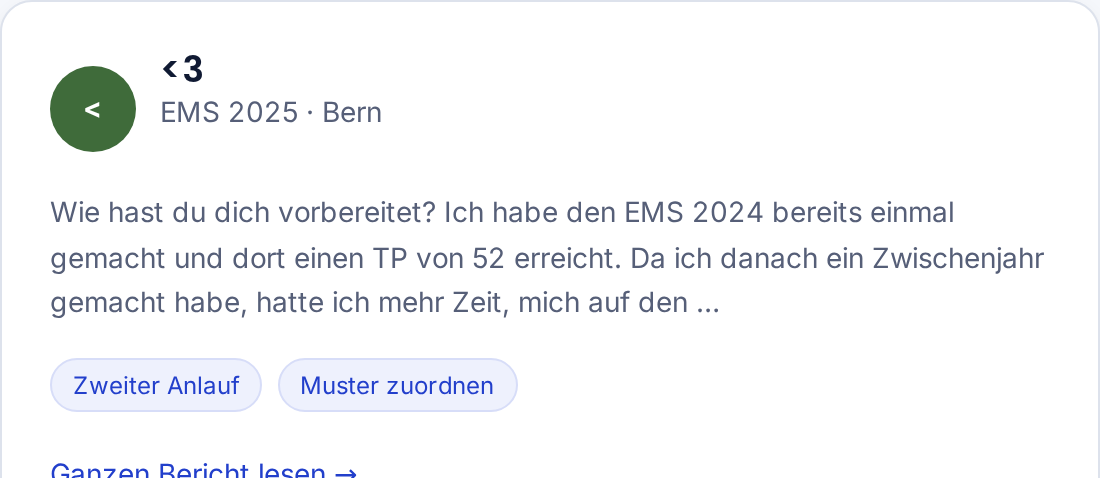
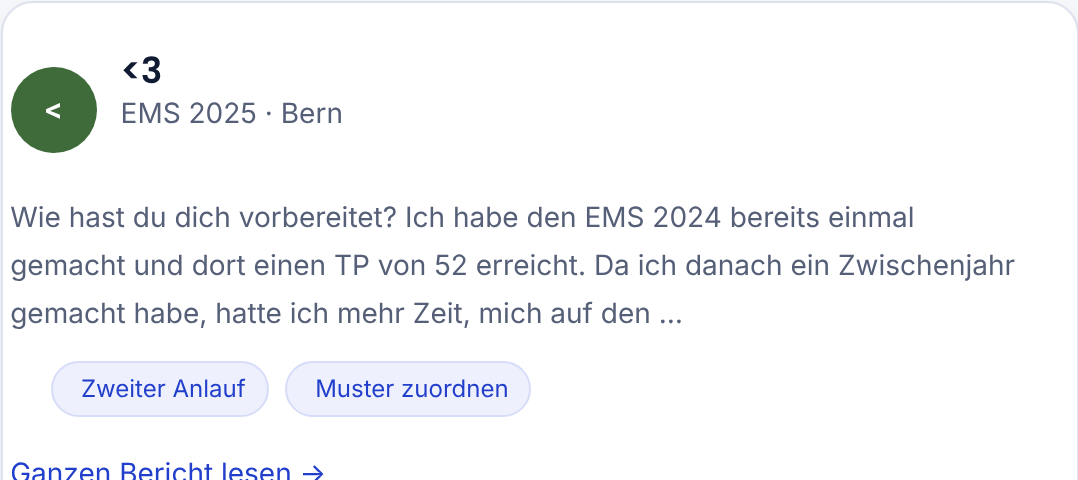
Kachelbilder je Sprache, Rückmeldung beim Drucken, Auswertungs-Tools öffentlich (Beta)
Kachelbilder der Startseite:
- Testheft-Deckblatt, Kursskript, Uniguide-Tabelle und Erfahrungsbericht gibt
  es je Sprache (testheft.fr.png …); die Seite nimmt das Bild ihrer Sprache,
  sonst das deutsche. Bisher standen die deutschen Bilder auch auf den
  französischen und italienischen Seiten.
- Neu scripts/angebot-bildschirmfotos.mjs für die beiden Bildschirmfotos.
  Die neun kleinen Übungsseiten bleiben einmalig (85 px breit, Serien nicht
  in allen Sprachen dieselben).

Lern-Generator: «Set als PDF / drucken» zeigt wie der Start sofort
«Set wird erzeugt …» und ist so lange gesperrt.

Auswertungs-Tools öffentlich, mit Beta-Hinweis im Tool (drei Sprachen):
- «Antwortbogen auswerten» auf /ems/testsimulationen/
- «Konzentrationstest auswerten» auf
  /ems/uebungsaufgaben/konzentriertes-arbeiten/
An der Leselogik ist nichts geändert. Auf den neuen Seiten in drei Sprachen
und Handybreite geprüft: gleiches Ergebnis wie auf der Alpha-Seite.

Prüfstände: Verhalten 118, 1002 Seitenaufrufe ohne Fund, Fakten 40,
Figuren 35, Antwortbogen 59, Konztest 51.

Claude-Session: https://claude.ai/code/session_01QYXDJP8xjsKLrfe2d15VtD

diff --git a/layouts/partials/bausteine/lern-generator.html b/layouts/partials/bausteine/lern-generator.html
@@ -289,7 +289,19 @@
     dazu(null, [{ inhalt: H.loesungsblatt(titel, auswahl.map(function(u){ return { titel: u.m.titelAbfrage, loesungen: u.m.loesungen() }; })) }]);
     H.drucken(seiten);
   }
-  el('lg-drucken').addEventListener('click', function(){ drucken(true); });
+  // «Set als PDF» wuerfelt erst ein neues Set - dieselbe Wartezeit wie beim
+  // Start, darum dieselbe Rueckmeldung: Knopf auf «wird erzeugt», den Browser
+  // das zeichnen lassen, dann rechnen.
+  el('lg-drucken').addEventListener('click', function(){
+    var knopf = this, text = knopf.textContent;
+    if (knopf.disabled) return;
+    if (!gewaehlt().length){ el('lg-fehler').hidden = false; return; }
+    knopf.disabled = true; knopf.textContent = T.erzeugt; knopf.setAttribute('aria-busy', 'true');
+    setTimeout(function(){
+      try { drucken(true); }
+      finally { knopf.disabled = false; knopf.textContent = text; knopf.removeAttribute('aria-busy'); }
+    }, 50);
+  });
   el('lg-drucken-ende').addEventListener('click', function(){ drucken(false); });
 })();
 </script>

diff --git a/layouts/partials/material-grid.html b/layouts/partials/material-grid.html
@@ -85,6 +85,10 @@
                gedruckten Skripte im Hörsaal, also mehr als die Titelseite der
                PDF-Datei je zeigen könnte. */ -}}
         {{- $pfad := printf "images/angebot/%s.png" . }}
+        {{- /* Gibt es das Bild in der Sprache der Seite (testheft.fr.png), gilt
+               dieses - sonst das deutsche. */ -}}
+        {{- $eigen := printf "images/angebot/%s.%s.png" . $.Site.Language.Lang }}
+        {{- if resources.Get $eigen }}{{ $pfad = $eigen }}{{ end }}
         {{- if strings.Contains . "." }}{{ $pfad = printf "images/%s" . }}{{ end }}
         {{- with resources.Get $pfad }}
         {{- /* Zwei Grössen: In der Neunerkachel (Übungsserien) ist jedes Bild nur

diff --git a/layouts/partials/bausteine/konztest-auswertung.html b/layouts/partials/bausteine/konztest-auswertung.html
@@ -44,6 +44,7 @@
 {{- partial "bausteine/konztest-lesen.html" . }}
 <div class="ab kt" id="kt-wurzel" data-pagefind-ignore>
 <script type="application/json" id="kt-daten">{{ $d | jsonify | safeJS }}</script>
+<p class="note" id="kt-beta">{{ i18n "bl_beta" }}</p>
 <p class="ab-intro">{{ i18n "kt_intro" }}</p>
 <p class="ab-privat">{{ i18n "kt_privat" }}</p>
 <div class="ab-eingabe">

diff --git a/layouts/partials/bausteine/antwortbogen-auswertung.html b/layouts/partials/bausteine/antwortbogen-auswertung.html
@@ -50,6 +50,7 @@
 {{- partial "bausteine/bild-lesen.html" . }}
 <div class="ab" id="ab-wurzel" data-pagefind-ignore>
 <script type="application/json" id="ab-daten">{{ $d | jsonify | safeJS }}</script>
+<p class="note" id="ab-beta">{{ i18n "bl_beta" }}</p>
 <p class="ab-intro">{{ i18n "ab_intro" }}</p>
 <p class="ab-privat">{{ i18n "ab_privat" }}</p>
 <div class="ab-eingabe">

diff --git a/scripts/angebot-bilder-erzeugen.py b/scripts/angebot-bilder-erzeugen.py
@@ -19,8 +19,8 @@ die Anzeigegrösse verkleinert - die Quelldateien dürfen also grosszügig sein.
 
 NICHT ENTHALTEN sind zwei Bilder der Collage "Orientierung und Austausch":
 uniguide.png (vier Zeilen der Vergleichstabelle) und berichte.png (EINE
-Erfahrungsbericht-Karte) sind Bildschirmfotos der eigenen Website. Sie
-entstehen mit Playwright; wie, steht in docs/WARTUNG-DETAILLIERT.md.
+Erfahrungsbericht-Karte) sind Bildschirmfotos der eigenen Website, je
+Sprache eines. Sie entstehen mit scripts/angebot-bildschirmfotos.mjs.
 Das dritte Feld (Discord) ist kein Bild mehr, sondern Text in der Seite
 (material-grid.html): drei erfundene Sprechblasen, je Sprache uebersetzt.
 Aus dem echten Discord-Server gibt es bewusst KEIN Bild - dort stehen Namen
@@ -81,6 +81,18 @@ SEITEN = [
     ('kursskript', 'assets/downloads/kursskripte/NCWiki_Kursskript_2026_deutsch.pdf', 0),
 ]
 
+# DIESELBEN SEITEN AUF FRANZÖSISCH UND ITALIENISCH: "testheft.fr.png" usw.
+# material-grid.html nimmt für eine Sprache zuerst das Bild mit ihrem Kürzel
+# und sonst das deutsche. Die neun kleinen Übungsseiten gibt es nur einmal:
+# In der Kachel sind sie 85 px breit (die Sprache ist nicht zu erkennen), und
+# die Serien sind nicht in allen Sprachen dieselben.
+SEITEN_SPRACHEN = [
+    ('testheft.fr', 'assets/downloads/testsimulationen/fr/2026_testsimulationen_Testsimulation.pdf', 2),
+    ('testheft.it', 'assets/downloads/testsimulationen/it/2026_testsimulationen_Testsimulation.pdf', 2),
+    ('kursskript.fr', 'assets/downloads/kursskripte/fr/2026_Kursskript.pdf', 0),
+    ('kursskript.it', 'assets/downloads/kursskripte/it/2026_Kursskript.pdf', 0),
+]
+
 
 def ganze_seite(name, pfad, seite_nr):
     voll = os.path.join(WURZEL, pfad)
@@ -100,7 +112,7 @@ def main():
     for eintrag in TEILE:
         ganze_seite(*eintrag)
     print('Weitere ganze Seiten:')
-    for eintrag in SEITEN:
+    for eintrag in SEITEN + SEITEN_SPRACHEN:
         ganze_seite(*eintrag)
     print('\nFertig. Die drei Bilder der Collage "Orientierung und Austausch"')
     print('(uniguide, berichte) entstehen separat - siehe Kopf dieser Datei.')

diff --git a/content/de/ems/uebungsaufgaben/konzentriertes-arbeiten.md b/content/de/ems/uebungsaufgaben/konzentriertes-arbeiten.md
@@ -20,6 +20,14 @@ Dies ist der einzige Untertest, bei dem eine Rangliste zwischen allen Kandidiere
 
 Für jedes richtig markierte Zeichen gibt es einen Punkt, für jedes falsch markierte oder bis zum letzten markierten Zeichen ausgelassene Zeichen wird ein Punkt abgezogen. Da ein übersprungenes Zeichen dich zusätzlich um die Chance auf einen Punkt bringt, ist Auslassen tendenziell schlechter als ein falsch gesetzter Strich. Insgesamt gibt es 40 Zeilen mit ungefähr gleichmässig verteilten Zeichen – im Schnitt lassen sich etwa zehn pro Zeile markieren, das kann als grobe Orientierung dienen.
 
+## Konzentrationstest auswerten
+
+Fotografiere dein bearbeitetes Blatt, und die Markierungen werden nach der Regel oben gezählt: richtig markiert minus falsch markiert minus ausgelassen. Geht für die Konzentrationstests unserer Testsimulationen und Übungsserien mit Lösungsblatt. Das Foto bleibt auf deinem Gerät.
+
+```baustein
+konztest-auswertung
+```
+
 ## Bedeutung für das Studium
 
 Als Ärztin oder Arzt ist es wichtig, auch unter Stress konzentriert und genau arbeiten zu können. Genau das prüft dieser Untertest.

diff --git a/content/fr/ems/uebungsaufgaben/konzentriertes-arbeiten.md b/content/fr/ems/uebungsaufgaben/konzentriertes-arbeiten.md
@@ -20,6 +20,14 @@ C'est le seul sous-test pour lequel un classement est établi entre tous les can
 
 Chaque caractère correctement marqué rapporte un point, chaque caractère marqué à tort ou omis jusqu'au dernier caractère marqué en retire un. Comme un caractère sauté te prive en plus de la chance d'un point, omettre est plutôt pire qu'un trait mal placé. Il y a au total 40 lignes avec des caractères répartis à peu près uniformément – on peut en moyenne marquer environ 10 caractères par ligne, ce qui peut servir de repère approximatif.
 
+## Évaluer le test de concentration
+
+Photographie ta feuille travaillée, et les marques sont comptées selon la règle ci-dessus : marques justes moins marques fausses moins signes omis. Fonctionne pour les tests de concentration de nos simulations et séries d'exercices avec corrigé. La photo reste sur ton appareil.
+
+```baustein
+konztest-auswertung
+```
+
 ## Importance pour les études
 
 En tant que médecin, il est important de pouvoir travailler de façon concentrée et précise, même sous stress. C'est exactement ce que teste ce sous-test.

diff --git a/content/it/ems/uebungsaufgaben/konzentriertes-arbeiten.md b/content/it/ems/uebungsaufgaben/konzentriertes-arbeiten.md
@@ -20,6 +20,14 @@ Il foglio è così lungo che difficilmente si riesce a completarlo.
 
 Per ogni simbolo marcato correttamente c'è un punto, per ogni simbolo marcato per errore o tralasciato fino all'ultimo simbolo marcato se ne toglie uno. Siccome un simbolo saltato ti toglie in più la possibilità di un punto, tralasciare è tendenzialmente peggio di un segno sbagliato. In tutto ci sono 40 righe con simboli distribuiti in modo più o meno uniforme – in media se ne possono marcare circa 10 per riga, il che può servire da orientamento approssimativo.
 
+## Valutare il test di concentrazione
+
+Fotografa il tuo foglio compilato, e i segni vengono contati secondo la regola qui sopra: segni giusti meno segni sbagliati meno segni omessi. Funziona per i test di concentrazione delle nostre simulazioni e serie di esercizi con foglio delle soluzioni. La foto resta sul tuo dispositivo.
+
+```baustein
+konztest-auswertung
+```
+
 ## Importanza per gli studi
 
 Come medico è importante riuscire a lavorare in modo concentrato e preciso anche sotto stress. È proprio ciò che verifica questo sottotest.

diff --git a/docs/WARTUNG-DETAILLIERT.md b/docs/WARTUNG-DETAILLIERT.md
@@ -525,7 +525,10 @@ Welche Bilder eine Kachel zeigt, steht in `layouts/partials/material-grid.html` 
 `object-fit: contain`) – die Quell-PDFs sind teils A4, teils US Letter. Fotos dürfen
 angeschnitten werden. Ein Name mit Endung wird unter `assets/images/` gesucht, einer ohne
 unter `assets/images/angebot/`. Neu erzeugen mit `python3 scripts/angebot-bilder-erzeugen.py`
-(braucht `pip install pymupdf`; oben im Skript stehen PDF und Seite je Bild). Das
+(braucht `pip install pymupdf`; oben im Skript stehen PDF und Seite je Bild). Testheft, Kursskript,
+Uniguide-Tabelle und Erfahrungsbericht gibt es je Sprache (`testheft.fr.png` …); die Seite nimmt
+das Bild ihrer Sprache und sonst das deutsche. Die beiden Bildschirmfotos erzeugt
+`node scripts/angebot-bildschirmfotos.mjs` (Testserver auf Port 8123). Das
 Discord-Feld ist kein Bild, sondern Text: drei erfundene Sprechblasen (`mat_chat_1` bis
 `mat_chat_3` in `i18n/`), bewusst kein Screenshot des echten Servers.
 

diff --git a/docs/WARTUNG-DETAILLIERT.fr.md b/docs/WARTUNG-DETAILLIERT.fr.md
@@ -537,7 +537,10 @@ blanc, `object-fit: contain`) – les PDF sources sont en partie A4, en partie U
 photos peuvent être recadrées. Un nom avec extension est cherché sous `assets/images/`,
 sans extension sous `assets/images/angebot/`. Regénérer avec
 `python3 scripts/angebot-bilder-erzeugen.py` (nécessite `pip install pymupdf` ; en haut du
-script figurent le PDF et la page de chaque image). Le champ Discord n'est pas une
+script figurent le PDF et la page de chaque image). Le cahier de test, le script du cours, le
+tableau Uniguide et le témoignage existent par langue (`testheft.fr.png` …) ; la page prend
+l'image de sa langue, sinon l'allemande. Les deux captures d'écran sont créées par
+`node scripts/angebot-bildschirmfotos.mjs` (serveur de test sur le port 8123). Le champ Discord n'est pas une
 image mais du texte : trois bulles inventées (`mat_chat_1` à `mat_chat_3` dans `i18n/`),
 volontairement pas une capture du vrai serveur.
 

diff --git a/docs/WARTUNG-DETAILLIERT.it.md b/docs/WARTUNG-DETAILLIERT.it.md
@@ -529,7 +529,10 @@ bianco, `object-fit: contain`) – i PDF di origine sono in parte A4, in parte U
 foto possono essere ritagliate. Un nome con estensione si cerca sotto `assets/images/`,
 senza estensione sotto `assets/images/angebot/`. Rigenerare con
 `python3 scripts/angebot-bilder-erzeugen.py` (serve `pip install pymupdf`; in cima allo
-script ci sono PDF e pagina di ogni immagine). Il campo Discord non è
+script ci sono PDF e pagina di ogni immagine). Fascicolo del test, script del corso, tabella
+Uniguide e testimonianza esistono per lingua (`testheft.fr.png` …); la pagina prende
+l'immagine della sua lingua, altrimenti quella tedesca. I due screenshot si creano con
+`node scripts/angebot-bildschirmfotos.mjs` (server di prova sulla porta 8123). Il campo Discord non è
 un'immagine ma testo: tre fumetti inventati (`mat_chat_1` – `mat_chat_3` in `i18n/`), di
 proposito non uno screenshot del vero server.
 

diff --git a/content/fr/ems/testsimulationen/_index.md b/content/fr/ems/testsimulationen/_index.md
@@ -23,3 +23,11 @@ Tu trouveras ici toutes les informations sur nos simulations de test.
 ## Cahiers de test à télécharger
 
 Tu peux télécharger gratuitement ici les cahiers de test de nos simulations précédentes. Ils te seront le plus utiles si tu les résous d'une traite et en temps limité, par exemple avec le mode simulation plus bas.
+
+## Évaluer la feuille de réponses
+
+Tu as fait la simulation sur papier ? Photographie ta feuille de réponses et tu vois tes points par sous-test – sans comparer les solutions à la main. La photo reste sur ton appareil.
+
+```baustein
+antwortbogen-auswertung
+```
